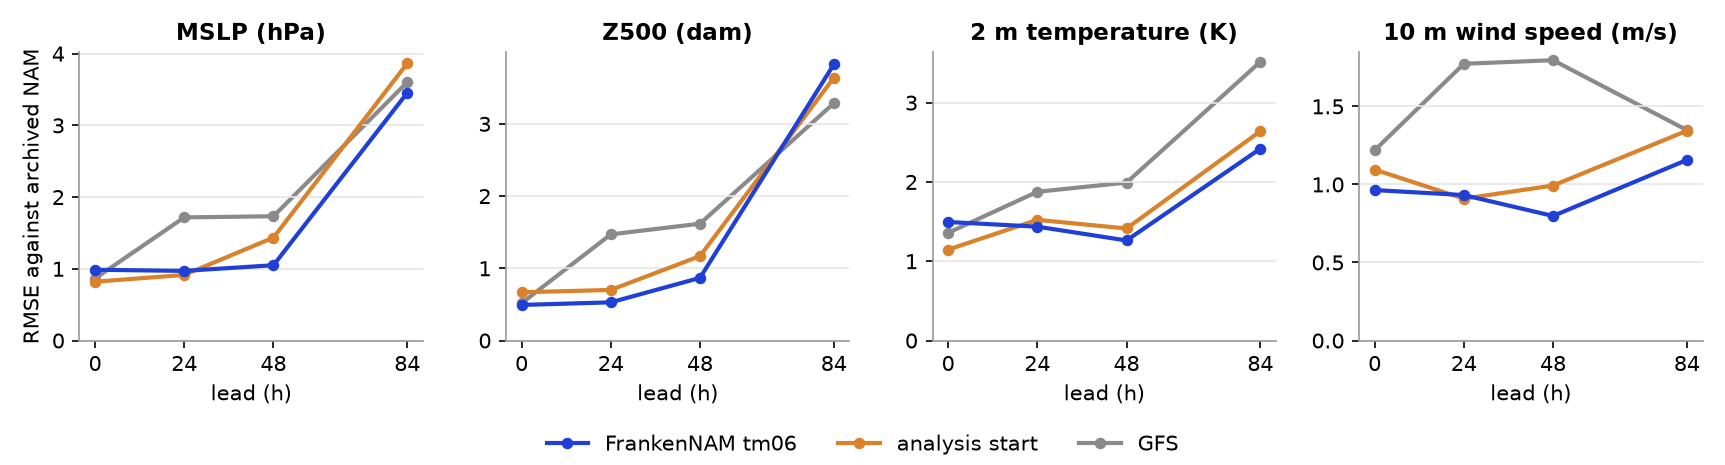
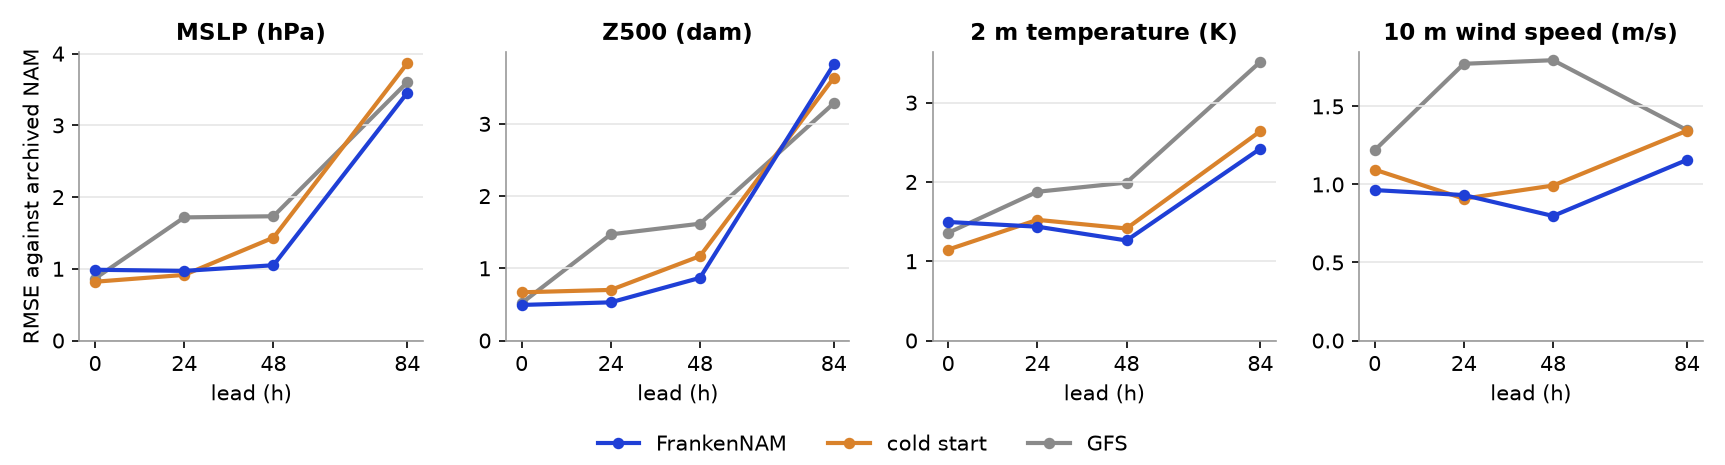
Validation: side-by-side panels become hour loopers over the rendered frames; FrankenNAM f00 is called its analysis, the anl arm is the cold start; help boxes off the panels

Changed region(s): [[0.4916, 0.9333, 0.6759, 0.9935], [0.3072, 0.9333, 0.4609, 0.9935]]

diff --git a/site/pages/validation.html b/site/pages/validation.html
@@ -17,8 +17,8 @@
 <p>The question here is <b>fidelity to the NAM</b>: does FrankenNAM look and behave like the model forecasters relied on? It is not a claim that FrankenNAM beats any other model. Every number below says which case it comes from; one case is one case.</p>
 
 <h2>Fidelity to the archived NAM</h2>
-<p>RMSE / bias of each run against the archived NAM, over CONUS land on a 0.25&deg; grid, for the 2026-11-01 00Z cycle. &ldquo;FrankenNAM tm06&rdquo; is the product configuration (the GFS analysis 6&nbsp;h earlier, then 6&nbsp;h of NAM spin-up). &ldquo;Analysis start&rdquo; starts from the same-cycle GFS analysis. Lowest RMSE in each row is shaded.</p>
-<div class="tblwrap"><table><tr><th>Field</th><th>Lead</th><th class="n">FrankenNAM tm06</th><th class="n">Analysis start</th><th class="n">GFS</th></tr>
+<p>RMSE / bias of each run against the archived NAM, over CONUS land on a 0.25&deg; grid, for the 2026-11-01 00Z cycle. &ldquo;FrankenNAM&rdquo; is the product. Its f00 is the FrankenNAM <b>analysis</b>: the GFS analysis from 6&nbsp;h earlier carried forward by 6&nbsp;h of NAM spin-up (the &ldquo;tm06&rdquo; start). No observations are assimilated. &ldquo;Cold start&rdquo; is a test run started straight from the same-cycle GFS analysis. Lowest RMSE in each row is shaded.</p>
+<div class="tblwrap"><table><tr><th>Field</th><th>Lead</th><th class="n">FrankenNAM</th><th class="n">Cold start</th><th class="n">GFS</th></tr>
 <tr><td>MSLP (hPa)</td><td>f00</td><td class="n">0.99 / -0.67</td><td class="n win">0.82 / -0.53</td><td class="n">0.86 / -0.56</td></tr>
 <tr><td>MSLP (hPa)</td><td>f24</td><td class="n">0.97 / +0.17</td><td class="n win">0.92 / -0.02</td><td class="n">1.72 / -0.89</td></tr>
 <tr><td>MSLP (hPa)</td><td>f48</td><td class="n win">1.05 / +0.41</td><td class="n">1.44 / +0.47</td><td class="n">1.73 / -0.51</td></tr>
@@ -39,14 +39,14 @@
 <tr><td>24 h precip, 24-48 h (mm)</td><td>f48</td><td class="n win">4.90 / -0.23</td><td class="n">5.16 / -0.47</td><td class="n">6.77 / +0.09</td></tr>
 <tr><td>24 h precip, 60-84 h (mm)</td><td>f84</td><td class="n win">9.12 / -0.55</td><td class="n">9.57 / +0.20</td><td class="n">9.72 / -0.25</td></tr>
 </table></div>
-<details class="q"><summary>? how to read this</summary><div>Each row compares one run with the archived NAM at the same forecast hour; a smaller RMSE means closer to the NAM, and a bias near zero means no systematic offset. The GFS column is context: it is a different model and was never meant to match the NAM. f00 shows the cost of the 6&nbsp;h lag (a small warm bias in 2 m temperature that is gone by f24). Wind components and the full table are in the repository (<code>docs/figs/tm06/stats.md</code>). One case.</div></details>
+<details class="q"><summary>? how to read this</summary><div>Each row compares one run with the archived NAM at the same forecast hour; a smaller RMSE means closer to the NAM, and a bias near zero means no systematic offset. The GFS column is context: it is a different model and was never meant to match the NAM. f00, the analysis, shows the cost of the 6&nbsp;h lag (a small warm bias in 2 m temperature that is gone by f24). Wind components and the full table are in the repository (<code>docs/figs/tm06/stats.md</code>). One case.</div></details>
 
-<figure class="full"><img src="img/rmse-vs-lead.png" alt="RMSE against the archived NAM by lead for FrankenNAM, the analysis start and the GFS" loading="lazy"><figcaption>RMSE against the archived NAM by lead. 2026-11-01 00Z.</figcaption></figure>
-<details class="q"><summary>? what this shows</summary><div>Lower is closer to the archived NAM. From f24 on the tm06 line sits at or below the analysis start in most panels, and the GFS is furthest away at f24 and f48. By f84 all three have drifted apart, and for Z500 the GFS is closest. One case: the six hindcast cases below are the larger test.</div></details>
+<figure class="full"><img src="img/rmse-vs-lead.png" alt="RMSE against the archived NAM by lead for FrankenNAM, the cold start and the GFS" loading="lazy"><figcaption>RMSE against the archived NAM by lead. 2026-11-01 00Z.</figcaption></figure>
+<details class="q"><summary>? what this shows</summary><div>Lower is closer to the archived NAM. From f24 on the FrankenNAM line sits at or below the cold start in most panels, and the GFS is furthest away at f24 and f48. By f84 all three have drifted apart, and for Z500 the GFS is closest. One case: the six hindcast cases below are the larger test.</div></details>
 
 <h2>Land state: the soil trace</h2>
 <figure class="full"><img src="img/soil-f00.png" alt="Soil moisture and temperature at f00: FrankenNAM is close to the NAM and far from the GFS" loading="lazy"><figcaption>Soil at f00, RMSE over CONUS land. 2026-11-01 00Z.</figcaption></figure>
-<details class="q"><summary>? what this shows</summary><div>The soil is seeded from the NAM's land state, so at f00 FrankenNAM's soil moisture is 0.012&nbsp;m<sup>3</sup>/m<sup>3</sup> from the archived NAM; the analysis start, which takes the GFS soil, is 0.072 away. The GFS is about 0.05&nbsp;m<sup>3</sup>/m<sup>3</sup> wetter than the NAM over CONUS. Soil temperature has moved 6&nbsp;h of diurnal cycle from the seed and sits 0.9&nbsp;K from the NAM.</div></details>
+<details class="q"><summary>? what this shows</summary><div>The soil is seeded from the NAM's land state, so at f00 FrankenNAM's soil moisture is 0.012&nbsp;m<sup>3</sup>/m<sup>3</sup> from the archived NAM; the cold start, which takes the GFS soil, is 0.072 away. The GFS is about 0.05&nbsp;m<sup>3</sup>/m<sup>3</sup> wetter than the NAM over CONUS. Soil temperature has moved 6&nbsp;h of diurnal cycle from the seed and sits 0.9&nbsp;K from the NAM.</div></details>
 
 <h2>What the NAM itself scored</h2>
 <p>For scale: the operational NAM against observations (ASOS/AWOS stations, MRMS 24&nbsp;h precipitation), with the GFS beside it, over seven cases chosen for weather. The NAM and the same-cycle GFS are tied on temperature and wind, and the GFS has the higher precipitation score. The fidelity target for FrankenNAM is the NAM's column, not the GFS's.</p>
@@ -58,12 +58,12 @@
 <tr><td>24 h precipitation ETS, 10 mm</td><td class="n">0.496</td><td class="n">0.545</td><td class="n">0.525</td></tr>
 <tr><td>24 h precipitation ETS, 25 mm</td><td class="n">0.353</td><td class="n">0.391</td><td class="n">0.374</td></tr>
 </table></div>
-<details class="q"><summary>? how this was made</summary><div>Seven cases, 12-84 h, about 390,000 station-hours per variable; model minus observation, bilinear interpolation, temperatures corrected to station elevation. Cases are picked for weather, not a random sample, and no significance tests are made. The 6&nbsp;h older GFS is the information a tm06 FrankenNAM starts from. Full tables: <a href='scorecard.html'>baseline scorecard</a>.</div></details>
+<details class="q"><summary>? how this was made</summary><div>Seven cases, 12-84 h, about 390,000 station-hours per variable; model minus observation, bilinear interpolation, temperatures corrected to station elevation. Cases are picked for weather, not a random sample, and no significance tests are made. The 6&nbsp;h older GFS is the information the FrankenNAM analysis starts from. Full tables: <a href='scorecard.html'>baseline scorecard</a>.</div></details>
 <p><a href="scorecard.html">Full baseline scorecard</a></p>
 
 <h2>Side by side with the archived NAM</h2>
-<p>FrankenNAM (left) and the archived NAM (right): same field, forecast hour and colour scale. Cycle 2026-11-01 00Z.</p>
-<figure class="full"><img src="img/panel-f48-mslp-precip.png" alt="f48: MSLP and 6 h precipitation" loading="lazy"><figcaption>f48: MSLP and 6 h precipitation</figcaption></figure><details class="q"><summary>? what this shows</summary><div>Low-pressure centre, its track and the precipitation shield.</div></details><figure class="full"><img src="img/panel-f24-t2m.png" alt="f24: 2 m temperature" loading="lazy"><figcaption>f24: 2 m temperature</figcaption></figure><details class="q"><summary>? what this shows</summary><div>Same scale; the cold pools and the warm sector.</div></details><figure class="full"><img src="img/panel-f36-ptype.png" alt="f36: precipitation type" loading="lazy"><figcaption>f36: precipitation type</figcaption></figure><details class="q"><summary>? what this shows</summary><div>Rain, snow, sleet and freezing rain flags, as the NAM's own fields give them.</div></details><figure class="full"><img src="img/panel-f72-snow.png" alt="f72: snowfall, Kuchera ratio" loading="lazy"><figcaption>f72: snowfall, Kuchera ratio</figcaption></figure><details class="q"><summary>? what this shows</summary><div>Snowfall computed from the model's liquid-equivalent snow and the Kuchera ratio.</div></details>
+<p>FrankenNAM (left) and the archived NAM (right): same field, forecast hour and colour scale. Cycle 2026-11-01 00Z. Drag the slider or press play to step through f00 to f84.</p>
+<figure class="looper" data-base="maps/frames/{m}/2026110100/conus/" data-field="mslp_precip6" data-hours="0,3,6,9,12,15,18,21,24,27,30,33,36,39,42,45,48,51,54,57,60,63,66,69,72,75,78,81,84" data-start="48"><figcaption><b>MSLP and 6 h precipitation</b> <span class="lp-hr">f48</span></figcaption><div class="lp-panes"><div class="lp-pane"><div class="lp-lab">FrankenNAM</div><img data-m="frankennam" src="maps/frames/frankennam/2026110100/conus/048-mslp_precip6.png" alt="FrankenNAM, MSLP and 6 h precipitation, f48" loading="lazy"></div><div class="lp-pane"><div class="lp-lab">Archived NAM</div><img data-m="nam" src="maps/frames/nam/2026110100/conus/048-mslp_precip6.png" alt="Archived NAM, MSLP and 6 h precipitation, f48" loading="lazy"></div></div><div class="lp-ctl"><button type="button" class="lp-play" aria-label="Play">&#9654;</button><input type="range" class="lp-slider" min="0" max="28" value="16" aria-label="Forecast hour"></div></figure><figure class="looper" data-base="maps/frames/{m}/2026110100/conus/" data-field="t2m" data-hours="0,3,6,9,12,15,18,21,24,27,30,33,36,39,42,45,48,51,54,57,60,63,66,69,72,75,78,81,84" data-start="24"><figcaption><b>2 m temperature</b> <span class="lp-hr">f24</span></figcaption><div class="lp-panes"><div class="lp-pane"><div class="lp-lab">FrankenNAM</div><img data-m="frankennam" src="maps/frames/frankennam/2026110100/conus/024-t2m.png" alt="FrankenNAM, 2 m temperature, f24" loading="lazy"></div><div class="lp-pane"><div class="lp-lab">Archived NAM</div><img data-m="nam" src="maps/frames/nam/2026110100/conus/024-t2m.png" alt="Archived NAM, 2 m temperature, f24" loading="lazy"></div></div><div class="lp-ctl"><button type="button" class="lp-play" aria-label="Play">&#9654;</button><input type="range" class="lp-slider" min="0" max="28" value="8" aria-label="Forecast hour"></div></figure><figure class="looper" data-base="maps/frames/{m}/2026110100/conus/" data-field="ptype" data-hours="0,3,6,9,12,15,18,21,24,27,30,33,36,39,42,45,48,51,54,57,60,63,66,69,72,75,78,81,84" data-start="36"><figcaption><b>Precipitation type</b> <span class="lp-hr">f36</span></figcaption><div class="lp-panes"><div class="lp-pane"><div class="lp-lab">FrankenNAM</div><img data-m="frankennam" src="maps/frames/frankennam/2026110100/conus/036-ptype.png" alt="FrankenNAM, Precipitation type, f36" loading="lazy"></div><div class="lp-pane"><div class="lp-lab">Archived NAM</div><img data-m="nam" src="maps/frames/nam/2026110100/conus/036-ptype.png" alt="Archived NAM, Precipitation type, f36" loading="lazy"></div></div><div class="lp-ctl"><button type="button" class="lp-play" aria-label="Play">&#9654;</button><input type="range" class="lp-slider" min="0" max="28" value="12" aria-label="Forecast hour"></div></figure><figure class="looper" data-base="maps/frames/{m}/2026110100/conus/" data-field="snowku" data-hours="3,6,9,12,15,18,21,24,27,30,33,36,39,42,45,48,51,54,57,60,63,66,69,72,75,78,81,84" data-start="72"><figcaption><b>Snowfall, Kuchera ratio</b> <span class="lp-hr">f72</span></figcaption><div class="lp-panes"><div class="lp-pane"><div class="lp-lab">FrankenNAM</div><img data-m="frankennam" src="maps/frames/frankennam/2026110100/conus/072-snowku.png" alt="FrankenNAM, Snowfall, Kuchera ratio, f72" loading="lazy"></div><div class="lp-pane"><div class="lp-lab">Archived NAM</div><img data-m="nam" src="maps/frames/nam/2026110100/conus/072-snowku.png" alt="Archived NAM, Snowfall, Kuchera ratio, f72" loading="lazy"></div></div><div class="lp-ctl"><button type="button" class="lp-play" aria-label="Play">&#9654;</button><input type="range" class="lp-slider" min="0" max="27" value="23" aria-label="Forecast hour"></div></figure>
 
 <h2>Hindcast highlights</h2>
 <p>Six cases forecasters know, run as hindcasts with FrankenNAM, the archived NAM and the GFS. Each card will carry a double-panel image and a few lines; the table below it pools the cases.</p>

diff --git a/site/pages/about.html b/site/pages/about.html
@@ -4,7 +4,7 @@
 <meta charset="utf-8">
 <meta name="viewport" content="width=device-width,initial-scale=1">
 <title>About FrankenNAM</title>
-<meta name="description" content="Design, the tm06 cycle, delivery clock, cost and the comparison with the operational NAM.">
+<meta name="description" content="Design, the FrankenNAM analysis, delivery clock, cost and the comparison with the operational NAM.">
 <link rel="stylesheet" href="style.css">
 <script src="config.js"></script>
 </head>
@@ -22,8 +22,8 @@
 <li><b>Free maps, paid files.</b> The maps are free. The GRIB2 files are on the <a href="data.html">Get Operational Data</a> page, and the costs are on the <a href="costs.html">costs page</a>.</li>
 </ul>
 
-<h2>The tm06 cycle</h2>
-<p>A product cycle C (00Z or 12Z) is a 90&nbsp;h integration that starts at C&minus;6&nbsp;h. The initial condition is the GFS analysis for that time, the lateral boundaries are the GFS forecasts that follow, and the first 6&nbsp;h are a NAM spin-up. Integration hour 6 is forecast hour 0 of the product, and hour 90 is f84. The soil (moisture, temperature, snow water) is seeded from the NAM's own land state rather than the GFS's, because the GFS is about 0.05&nbsp;m<sup>3</sup>/m<sup>3</sup> wetter than the NAM over CONUS. There is no data assimilation.</p>
+<h2>The FrankenNAM analysis</h2>
+<p>A product cycle C (00Z or 12Z) is a 90&nbsp;h integration that starts at C&minus;6&nbsp;h. The initial condition is the GFS analysis for that time, the lateral boundaries are the GFS forecasts that follow, and the first 6&nbsp;h are a NAM spin-up. Integration hour 6 is forecast hour 0 of the product, and hour 90 is f84. That f00 is what FrankenNAM calls its <b>analysis</b>, in the same way the operational NAM&rsquo;s 6&nbsp;h catch-up ended in its analysis; it comes from the model alone, not from observations. Because the run starts 6&nbsp;h early, the first day of forecast can be ready before the cycle time itself. The soil (moisture, temperature, snow water) is seeded from the NAM's own land state rather than the GFS's, because the GFS is about 0.05&nbsp;m<sup>3</sup>/m<sup>3</sup> wetter than the NAM over CONUS. There is no data assimilation.</p>
 <div class="honest"><p><b>The honesty line, on every product.</b> Initialized from the (C&minus;6)Z GFS analysis with a 6&nbsp;h NAM spin-up. No observations after (C&minus;6)Z. Not the operational NAM.</p></div>
 <details class="q"><summary>? what is seeded and what is not</summary><div>Seeded from the NAM land state at C&minus;6: four soil moisture and temperature layers, skin temperature (over land only), snow water equivalent. Not seeded: canopy water (the model starts it at zero, as the operational cold start did), snow depth (derived from the water equivalent), sea ice and sea-surface temperature (GFS). The seam at the edge of grid 218 is a hard edge: NAM soil inside, GFS soil outside.</div></details>
 
@@ -61,7 +61,7 @@
 <h2>How it came back</h2>
 <p>NCEP announced in September 2026 that the NAM source would be removed on retirement and available only on request. When NCEP's own copy came down, the NAM developers' public GitHub repositories (the model source and the Rocoto workflow) supplied what was needed. The static files the model reads at run time (terrain, land-use and soil tables, CO<sub>2</sub>) were recovered from Wayback Machine captures of earlier NAM v4.2 releases. In a first run on AWS, the full domain was integrated for 84&nbsp;h from a historical cycle; its fields tracked the archived NAM closely enough to build a product on. Then the spin-up design, the land seeding and the NAM-identical file layout followed.</p>
 <p>What could not come back is the NAM's data assimilation: its analysis needs an 80-member ensemble that was never public. That is the honest difference, stated on every product.</p>
-<p class="small">Sources: the project's scoping and build notes, and the tm06 design notes, in the <a data-cfg-href="GITHUB_URL" href="#">repository</a>. Related work: other community recasts of the NAM exist; FrankenNAM does not speak for them.</p>
+<p class="small">Sources: the project's scoping and build notes, and the design notes for the analysis, in the <a data-cfg-href="GITHUB_URL" href="#">repository</a>. Related work: other community recasts of the NAM exist; FrankenNAM does not speak for them.</p>
 
 </main>
 <footer class="bot"><p><b>Initialized from the (C&minus;6)Z GFS analysis with a 6&nbsp;h NAM spin-up. No observations after (C&minus;6)Z.</b></p><p>A community project. Not affiliated with or endorsed by NOAA or the National Weather Service. Operated by Joe Boomgard-Zagrodnik.</p><p><a href="costs.html">What it costs</a> &middot; <a href="terms.html">Terms</a> &middot; <a href="scorecard.html">Baseline scorecard</a> &middot; <a data-cfg-href="GITHUB_URL" href="#">GitHub</a> <span class="ph">[PLACEHOLDER: repository URL]</span> &middot; <a href="https://theconvergencezone.com/contact/">Contact</a></p></footer>

diff --git a/site/gen/body/about.html b/site/gen/body/about.html
@@ -8,8 +8,8 @@
 <li><b>Free maps, paid files.</b> The maps are free. The GRIB2 files are on the <a href="data.html">Get Operational Data</a> page, and the costs are on the <a href="costs.html">costs page</a>.</li>
 </ul>
 
-<h2>The tm06 cycle</h2>
-<p>A product cycle C (00Z or 12Z) is a 90&nbsp;h integration that starts at C&minus;6&nbsp;h. The initial condition is the GFS analysis for that time, the lateral boundaries are the GFS forecasts that follow, and the first 6&nbsp;h are a NAM spin-up. Integration hour 6 is forecast hour 0 of the product, and hour 90 is f84. The soil (moisture, temperature, snow water) is seeded from the NAM's own land state rather than the GFS's, because the GFS is about 0.05&nbsp;m<sup>3</sup>/m<sup>3</sup> wetter than the NAM over CONUS. There is no data assimilation.</p>
+<h2>The FrankenNAM analysis</h2>
+<p>A product cycle C (00Z or 12Z) is a 90&nbsp;h integration that starts at C&minus;6&nbsp;h. The initial condition is the GFS analysis for that time, the lateral boundaries are the GFS forecasts that follow, and the first 6&nbsp;h are a NAM spin-up. Integration hour 6 is forecast hour 0 of the product, and hour 90 is f84. That f00 is what FrankenNAM calls its <b>analysis</b>, in the same way the operational NAM&rsquo;s 6&nbsp;h catch-up ended in its analysis; it comes from the model alone, not from observations. Because the run starts 6&nbsp;h early, the first day of forecast can be ready before the cycle time itself. The soil (moisture, temperature, snow water) is seeded from the NAM's own land state rather than the GFS's, because the GFS is about 0.05&nbsp;m<sup>3</sup>/m<sup>3</sup> wetter than the NAM over CONUS. There is no data assimilation.</p>
 <div class="honest"><p><b>The honesty line, on every product.</b> Initialized from the (C&minus;6)Z GFS analysis with a 6&nbsp;h NAM spin-up. No observations after (C&minus;6)Z. Not the operational NAM.</p></div>
 <details class="q"><summary>? what is seeded and what is not</summary><div>Seeded from the NAM land state at C&minus;6: four soil moisture and temperature layers, skin temperature (over land only), snow water equivalent. Not seeded: canopy water (the model starts it at zero, as the operational cold start did), snow depth (derived from the water equivalent), sea ice and sea-surface temperature (GFS). The seam at the edge of grid 218 is a hard edge: NAM soil inside, GFS soil outside.</div></details>
 
@@ -47,4 +47,4 @@
 <h2>How it came back</h2>
 <p>NCEP announced in September 2026 that the NAM source would be removed on retirement and available only on request. When NCEP's own copy came down, the NAM developers' public GitHub repositories (the model source and the Rocoto workflow) supplied what was needed. The static files the model reads at run time (terrain, land-use and soil tables, CO<sub>2</sub>) were recovered from Wayback Machine captures of earlier NAM v4.2 releases. In a first run on AWS, the full domain was integrated for 84&nbsp;h from a historical cycle; its fields tracked the archived NAM closely enough to build a product on. Then the spin-up design, the land seeding and the NAM-identical file layout followed.</p>
 <p>What could not come back is the NAM's data assimilation: its analysis needs an 80-member ensemble that was never public. That is the honest difference, stated on every product.</p>
-<p class="small">Sources: the project's scoping and build notes, and the tm06 design notes, in the <a data-cfg-href="GITHUB_URL" href="#">repository</a>. Related work: other community recasts of the NAM exist; FrankenNAM does not speak for them.</p>
+<p class="small">Sources: the project's scoping and build notes, and the design notes for the analysis, in the <a data-cfg-href="GITHUB_URL" href="#">repository</a>. Related work: other community recasts of the NAM exist; FrankenNAM does not speak for them.</p>

diff --git a/site/pages/site.js b/site/pages/site.js
@@ -5,3 +5,32 @@
   document.querySelectorAll("[data-cfg-text]").forEach(function (e) { var v = c[e.getAttribute("data-cfg-text")]; if (v !== undefined) e.textContent = v; });
   document.querySelectorAll("[data-pledge-bar]").forEach(function (e) { e.style.width = Math.min(100, 100 * c.PLEDGE_PAID / c.PLEDGE_GOAL) + "%"; });
 })();
+
+/* Side-by-side loopers: one slider and play button drive both panes. Frames preload once the looper is on screen. */
+(function () {
+  document.querySelectorAll("figure.looper").forEach(function (f) {
+    var hours = f.dataset.hours.split(",").map(Number), base = f.dataset.base, field = f.dataset.field;
+    var imgs = f.querySelectorAll("img[data-m]"), sl = f.querySelector(".lp-slider"), btn = f.querySelector(".lp-play");
+    var hr = f.querySelector(".lp-hr"), timer = null, loaded = false;
+    function src(m, h) { return base.replace("{m}", m) + String(h).padStart(3, "0") + "-" + field + ".png"; }
+    function show(i) {
+      var h = hours[i];
+      imgs.forEach(function (im) { im.src = src(im.dataset.m, h); });
+      hr.textContent = "f" + String(h).padStart(2, "0");
+    }
+    function preload() {
+      if (loaded) return; loaded = true;
+      hours.forEach(function (h) { imgs.forEach(function (im) { new Image().src = src(im.dataset.m, h); }); });
+    }
+    function stop() { clearInterval(timer); timer = null; btn.innerHTML = "&#9654;"; btn.setAttribute("aria-label", "Play"); }
+    sl.addEventListener("input", function () { stop(); preload(); show(+sl.value); });
+    btn.addEventListener("click", function () {
+      if (timer) return stop();
+      preload(); btn.innerHTML = "&#10074;&#10074;"; btn.setAttribute("aria-label", "Pause");
+      timer = setInterval(function () { sl.value = (+sl.value + 1) % hours.length; show(+sl.value); }, 600);
+    });
+    if ("IntersectionObserver" in window) {
+      new IntersectionObserver(function (es, o) { if (es[0].isIntersecting) { preload(); o.disconnect(); } }, { rootMargin: "200px" }).observe(f);
+    }
+  });
+})();

diff --git a/site/pages/style.css b/site/pages/style.css
@@ -86,3 +86,14 @@ figcaption{font-size:13.5px;color:var(--muted);margin-top:4px}
 td.win{font-weight:700;background:#eaf0ff}
 .lede.plain{max-width:70ch}
 nav a[aria-current]{border-bottom:2px solid var(--ink)}
+figure.looper{margin:18px 0 26px}
+figure.looper figcaption{font-size:15px;margin-bottom:6px}
+.lp-hr{font-variant-numeric:tabular-nums;color:var(--accent);font-weight:600;margin-left:6px}
+.lp-panes{display:grid;grid-template-columns:1fr 1fr;gap:8px}
+.lp-pane{background:#fff;border:1px solid var(--line)}
+.lp-pane img{display:block;width:100%;height:auto}
+.lp-lab{font-size:13px;font-weight:600;padding:3px 8px;border-bottom:1px solid var(--line);background:#f6f6f4}
+.lp-ctl{display:flex;align-items:center;gap:10px;margin-top:8px}
+.lp-play{width:38px;height:32px;border:1px solid var(--line);background:#fff;border-radius:6px;cursor:pointer;font-size:13px;color:var(--accent)}
+.lp-slider{flex:1;accent-color:var(--accent)}
+@media (max-width:700px){.lp-panes{grid-template-columns:1fr}}

diff --git a/site/gen/validation.py b/site/gen/validation.py
@@ -12,12 +12,14 @@ REPO = os.path.dirname(os.path.dirname(HERE))
 FIELDS = [("mslp", "MSLP (hPa)"), ("z500", "Z500 (dam)"), ("t2m", "2 m temperature (K)"), ("wspd10", "10 m wind speed (m/s)")]
 LEADS = [0, 24, 48, 84]
 PRECIP = [("precip24h_0-24", "24 h precip, 0-24 h (mm)"), ("precip24h_24-48", "24 h precip, 24-48 h (mm)"), ("precip24h_60-84", "24 h precip, 60-84 h (mm)")]
-PANELS = [
-    ("panel-f48-mslp-precip.png", "f48: MSLP and 6 h precipitation", "Low-pressure centre, its track and the precipitation shield."),
-    ("panel-f24-t2m.png", "f24: 2 m temperature", "Same scale; the cold pools and the warm sector."),
-    ("panel-f36-ptype.png", "f36: precipitation type", "Rain, snow, sleet and freezing rain flags, as the NAM's own fields give them."),
-    ("panel-f72-snow.png", "f72: snowfall, Kuchera ratio", "Snowfall computed from the model's liquid-equivalent snow and the Kuchera ratio."),
+LOOP_CYCLE, LOOP_REGION = "2026110100", "conus"
+LOOPS = [  # field key in the rendered frames, first hour shown, title
+    ("mslp_precip6", 48, "MSLP and 6 h precipitation"),
+    ("t2m", 24, "2 m temperature"),
+    ("ptype", 36, "Precipitation type"),
+    ("snowku", 72, "Snowfall, Kuchera ratio"),
 ]
+NO_F00 = {"precip6", "precip_total", "snow10", "snowku"}  # accumulations start at f03
 
 
 def q(label, text):
@@ -26,7 +28,7 @@ def q(label, text):
 
 def fidelity_table() -> str:
     rows = {(r["field"], int(r["lead"])): r for r in csv.DictReader(open(os.path.join(REPO, "docs/figs/tm06/stats.csv")))}
-    out = ['<div class="tblwrap"><table><tr><th>Field</th><th>Lead</th><th class="n">FrankenNAM tm06</th><th class="n">Analysis start</th><th class="n">GFS</th></tr>']
+    out = ['<div class="tblwrap"><table><tr><th>Field</th><th>Lead</th><th class="n">FrankenNAM</th><th class="n">Cold start</th><th class="n">GFS</th></tr>']
     def row(name, key, lead):
         r = rows[(key, lead)]
         v = [(float(r[f"rmse_{m}_vs_NAM"]), float(r[f"bias_{m}_vs_NAM"])) for m in ("tm06", "anl", "GFS")]
@@ -58,6 +60,18 @@ def figure(src, cap, alt):
     return f'<figure class="full"><img src="{src}" alt="{alt}" loading="lazy"><figcaption>{cap}</figcaption></figure>'
 
 
+def looper(field, start, title) -> str:
+    hours = [h for h in range(0, 85, 3) if not (h == 0 and field in NO_F00)]
+    base = f"maps/frames/{{m}}/{LOOP_CYCLE}/{LOOP_REGION}/"
+    img = lambda m, lab: (f'<div class="lp-pane"><div class="lp-lab">{lab}</div>'
+                          f'<img data-m="{m}" src="{base.format(m=m)}{start:03d}-{field}.png" alt="{lab}, {title}, f{start:02d}" loading="lazy"></div>')
+    return (f'<figure class="looper" data-base="{base}" data-field="{field}" data-hours="{",".join(map(str, hours))}" data-start="{start}">'
+            f'<figcaption><b>{title}</b> <span class="lp-hr">f{start:02d}</span></figcaption>'
+            f'<div class="lp-panes">{img("frankennam", "FrankenNAM")}{img("nam", "Archived NAM")}</div>'
+            f'<div class="lp-ctl"><button type="button" class="lp-play" aria-label="Play">&#9654;</button>'
+            f'<input type="range" class="lp-slider" min="0" max="{len(hours) - 1}" value="{hours.index(start)}" aria-label="Forecast hour"></div></figure>')
+
+
 def hindcast() -> str:
     d = json.load(open(os.path.join(HERE, "hindcast.json")))
     cards = []
@@ -81,26 +95,26 @@ def body() -> str:
 <p>The question here is <b>fidelity to the NAM</b>: does FrankenNAM look and behave like the model forecasters relied on? It is not a claim that FrankenNAM beats any other model. Every number below says which case it comes from; one case is one case.</p>
 
 <h2>Fidelity to the archived NAM</h2>
-<p>RMSE / bias of each run against the archived NAM, over CONUS land on a 0.25&deg; grid, for the 2026-11-01 00Z cycle. &ldquo;FrankenNAM tm06&rdquo; is the product configuration (the GFS analysis 6&nbsp;h earlier, then 6&nbsp;h of NAM spin-up). &ldquo;Analysis start&rdquo; starts from the same-cycle GFS analysis. Lowest RMSE in each row is shaded.</p>
+<p>RMSE / bias of each run against the archived NAM, over CONUS land on a 0.25&deg; grid, for the 2026-11-01 00Z cycle. &ldquo;FrankenNAM&rdquo; is the product. Its f00 is the FrankenNAM <b>analysis</b>: the GFS analysis from 6&nbsp;h earlier carried forward by 6&nbsp;h of NAM spin-up (the &ldquo;tm06&rdquo; start). No observations are assimilated. &ldquo;Cold start&rdquo; is a test run started straight from the same-cycle GFS analysis. Lowest RMSE in each row is shaded.</p>
 {fidelity_table()}
-{q("how to read this", "Each row compares one run with the archived NAM at the same forecast hour; a smaller RMSE means closer to the NAM, and a bias near zero means no systematic offset. The GFS column is context: it is a different model and was never meant to match the NAM. f00 shows the cost of the 6&nbsp;h lag (a small warm bias in 2 m temperature that is gone by f24). Wind components and the full table are in the repository (<code>docs/figs/tm06/stats.md</code>). One case.")}
+{q("how to read this", "Each row compares one run with the archived NAM at the same forecast hour; a smaller RMSE means closer to the NAM, and a bias near zero means no systematic offset. The GFS column is context: it is a different model and was never meant to match the NAM. f00, the analysis, shows the cost of the 6&nbsp;h lag (a small warm bias in 2 m temperature that is gone by f24). Wind components and the full table are in the repository (<code>docs/figs/tm06/stats.md</code>). One case.")}
 
-{figure("img/rmse-vs-lead.png", "RMSE against the archived NAM by lead. 2026-11-01 00Z.", "RMSE against the archived NAM by lead for FrankenNAM, the analysis start and the GFS")}
-{q("what this shows", "Lower is closer to the archived NAM. From f24 on the tm06 line sits at or below the analysis start in most panels, and the GFS is furthest away at f24 and f48. By f84 all three have drifted apart, and for Z500 the GFS is closest. One case: the six hindcast cases below are the larger test.")}
+{figure("img/rmse-vs-lead.png", "RMSE against the archived NAM by lead. 2026-11-01 00Z.", "RMSE against the archived NAM by lead for FrankenNAM, the cold start and the GFS")}
+{q("what this shows", "Lower is closer to the archived NAM. From f24 on the FrankenNAM line sits at or below the cold start in most panels, and the GFS is furthest away at f24 and f48. By f84 all three have drifted apart, and for Z500 the GFS is closest. One case: the six hindcast cases below are the larger test.")}
 
 <h2>Land state: the soil trace</h2>
 {figure("img/soil-f00.png", "Soil at f00, RMSE over CONUS land. 2026-11-01 00Z.", "Soil moisture and temperature at f00: FrankenNAM is close to the NAM and far from the GFS")}
-{q("what this shows", "The soil is seeded from the NAM's land state, so at f00 FrankenNAM's soil moisture is 0.012&nbsp;m<sup>3</sup>/m<sup>3</sup> from the archived NAM; the analysis start, which takes the GFS soil, is 0.072 away. The GFS is about 0.05&nbsp;m<sup>3</sup>/m<sup>3</sup> wetter than the NAM over CONUS. Soil temperature has moved 6&nbsp;h of diurnal cycle from the seed and sits 0.9&nbsp;K from the NAM.")}
+{q("what this shows", "The soil is seeded from the NAM's land state, so at f00 FrankenNAM's soil moisture is 0.012&nbsp;m<sup>3</sup>/m<sup>3</sup> from the archived NAM; the cold start, which takes the GFS soil, is 0.072 away. The GFS is about 0.05&nbsp;m<sup>3</sup>/m<sup>3</sup> wetter than the NAM over CONUS. Soil temperature has moved 6&nbsp;h of diurnal cycle from the seed and sits 0.9&nbsp;K from the NAM.")}
 
 <h2>What the NAM itself scored</h2>
 <p>For scale: the operational NAM against observations (ASOS/AWOS stations, MRMS 24&nbsp;h precipitation), with the GFS beside it, over seven cases chosen for weather. The NAM and the same-cycle GFS are tied on temperature and wind, and the GFS has the higher precipitation score. The fidelity target for FrankenNAM is the NAM's column, not the GFS's.</p>
 {baseline_table()}
-{q("how this was made", "Seven cases, 12-84 h, about 390,000 station-hours per variable; model minus observation, bilinear interpolation, temperatures corrected to station elevation. Cases are picked for weather, not a random sample, and no significance tests are made. The 6&nbsp;h older GFS is the information a tm06 FrankenNAM starts from. Full tables: <a href='scorecard.html'>baseline scorecard</a>.")}
+{q("how this was made", "Seven cases, 12-84 h, about 390,000 station-hours per variable; model minus observation, bilinear interpolation, temperatures corrected to station elevation. Cases are picked for weather, not a random sample, and no significance tests are made. The 6&nbsp;h older GFS is the information the FrankenNAM analysis starts from. Full tables: <a href='scorecard.html'>baseline scorecard</a>.")}
 <p><a href="scorecard.html">Full baseline scorecard</a></p>
 
 <h2>Side by side with the archived NAM</h2>
-<p>FrankenNAM (left) and the archived NAM (right): same field, forecast hour and colour scale. Cycle 2026-11-01 00Z.</p>
-{"".join(figure("img/" + f, c, t) + q("what this shows", e) for f, t, e in [(p[0], p[1], p[2]) for p in PANELS] for c in [t])}
+<p>FrankenNAM (left) and the archived NAM (right): same field, forecast hour and colour scale. Cycle 2026-11-01 00Z. Drag the slider or press play to step through f00 to f84.</p>
+{"".join(looper(*x) for x in LOOPS)}
 
 <h2>Hindcast highlights</h2>
 <p>Six cases forecasters know, run as hindcasts with FrankenNAM, the archived NAM and the GFS. Each card will carry a double-panel image and a few lines; the table below it pools the cases.</p>

diff --git a/site/gen/figs.py b/site/gen/figs.py
@@ -1,13 +1,11 @@
 #!/usr/bin/env python3
 """Validation-page figures (needs matplotlib and pillow: use the site venv).
 
-    ~/data/nam-recast-site/venv/bin/python site/gen/figs.py [--frames ~/data/nam-recast-site/out/frames]
+    ~/data/nam-recast-site/venv/bin/python site/gen/figs.py
 
 Writes into site/pages/img/:
   rmse-vs-lead.png   RMSE against the archived NAM by lead, from docs/figs/tm06/stats.csv
   soil-f00.png       f00 soil trace, from docs/figs/tm06/soil.md
-  panel-*.png        FrankenNAM | archived NAM, same field, hour and scale, from the rendered frames
-                     (both are renders of the 2026-11-01 00Z products by site/render)
 """
 from __future__ import annotations
 
@@ -29,14 +27,6 @@ INK, FN, ANL, GFS = "#1a1a1a", "#1f3fd6", "#d9822b", "#8a8a8a"
 plt.rcParams.update({"font.family": "DejaVu Sans", "font.size": 10, "axes.edgecolor": "#999", "axes.spines.top": False,
                      "axes.spines.right": False, "axes.titleweight": "bold", "axes.titlesize": 11})
 
-PANELS = [  # file, field, hour
-    ("panel-f48-mslp-precip", "mslp_precip6", 48),
-    ("panel-f24-t2m", "t2m", 24),
-    ("panel-f36-ptype", "ptype", 36),
-    ("panel-f72-snow", "snowku", 72),
-]
-
-
 def rmse_vs_lead():
     rows = list(csv.DictReader(open(os.path.join(REPO, "docs/figs/tm06/stats.csv"))))
     fields = [("mslp", "MSLP (hPa)"), ("z500", "Z500 (dam)"), ("t2m", "2 m temperature (K)"), ("wspd10", "10 m wind speed (m/s)")]
@@ -44,7 +34,7 @@ def rmse_vs_lead():
     for ax, (f, t) in zip(axs, fields):
         rs = sorted((r for r in rows if r["field"] == f), key=lambda r: int(r["lead"]))
         x = [int(r["lead"]) for r in rs]
-        for col, c, lab, z in (("rmse_GFS_vs_NAM", GFS, "GFS", 1), ("rmse_anl_vs_NAM", ANL, "analysis start", 2), ("rmse_tm06_vs_NAM", FN, "FrankenNAM tm06", 3)):
+        for col, c, lab, z in (("rmse_GFS_vs_NAM", GFS, "GFS", 1), ("rmse_anl_vs_NAM", ANL, "cold start", 2), ("rmse_tm06_vs_NAM", FN, "FrankenNAM", 3)):
             ax.plot(x, [float(r[col]) for r in rs], "-o", color=c, lw=2, ms=4.5, label=lab, zorder=z)
         ax.set_title(t); ax.set_xticks(x); ax.set_xlabel("lead (h)"); ax.set_ylim(bottom=0); ax.grid(axis="y", color="#e6e6e6")
     axs[0].set_ylabel("RMSE against archived NAM")
@@ -64,7 +54,7 @@ def soil():
     fig, axs = plt.subplots(1, 2, figsize=(8.6, 3.0), dpi=150)
     for ax, (n, title, fmt) in zip(axs, spec):
         vals = [cell(n, 1), cell(n, 5), cell(n, 2)]
-        labs = ["FrankenNAM\nvs NAM", "analysis start\nvs NAM", "FrankenNAM\nvs GFS"]
+        labs = ["FrankenNAM\nvs NAM", "cold start\nvs NAM", "FrankenNAM\nvs GFS"]
         bars = ax.bar(labs, vals, color=[FN, ANL, GFS], width=0.62)
         for b, v in zip(bars, vals):
             ax.text(b.get_x() + b.get_width() / 2, v, fmt.format(v), ha="center", va="bottom", fontsize=9)
@@ -73,24 +63,9 @@ def soil():
     fig.tight_layout(); fig.savefig(os.path.join(OUT, "soil-f00.png")); plt.close(fig)
 
 
-def panels(frames, cycle="2026110100", region="conus"):
-    for name, field, h in PANELS:
-        ims = []
-        for m in ("frankennam", "nam"):
-            p = os.path.join(frames, m, cycle, region, f"{h:03d}-{field}.png")
-            ims.append(Image.open(p).convert("RGB"))
-        w, hh = ims[0].size
-        gap = 8
-        canvas = Image.new("RGB", (2 * w + gap, hh), "#cccccc")
-        canvas.paste(ims[0], (0, 0)); canvas.paste(ims[1], (w + gap, 0))
-        canvas = canvas.resize((2000, round(hh * 2000 / (2 * w + gap))), Image.LANCZOS)
-        canvas.quantize(256).save(os.path.join(OUT, name + ".png"), optimize=True)
-
-
 if __name__ == "__main__":
     ap = argparse.ArgumentParser()
-    ap.add_argument("--frames", default=os.path.expanduser("~/data/nam-recast-site/out/frames"))
     a = ap.parse_args()
     os.makedirs(OUT, exist_ok=True)
-    rmse_vs_lead(); soil(); panels(a.frames)
+    rmse_vs_lead(); soil()   # side-by-side panels are now loopers over the rendered frames (validation.py)
     print("wrote", sorted(os.listdir(OUT)))

diff --git a/site/gen/build_pages.py b/site/gen/build_pages.py
@@ -19,7 +19,7 @@ BODY = lambda n: open(os.path.join(HERE, "body", n + ".html")).read()  # noqa: E
 SPEC = [
     ("index", "FrankenNAM: an open source project to keep the NAM model alive", "", BODY("index"),
      "Why FrankenNAM exists, and the latest maps."),
-    ("about", "About FrankenNAM", "about.html", BODY("about"), "Design, the tm06 cycle, delivery clock, cost and the comparison with the operational NAM."),
+    ("about", "About FrankenNAM", "about.html", BODY("about"), "Design, the FrankenNAM analysis, delivery clock, cost and the comparison with the operational NAM."),
     ("validation", "Validation", "validation.html", validation.body(), "Fidelity to the archived NAM, the baseline scorecard, side-by-side plots and hindcast highlights."),
     ("data", "Get Operational Data", "data.html", BODY("data"), "NOAA-identical grid-218 files, swap-in examples and subscription."),
     ("terms", "Terms", "terms.html", BODY("terms"), "Plain-language terms for the paid grids."),
